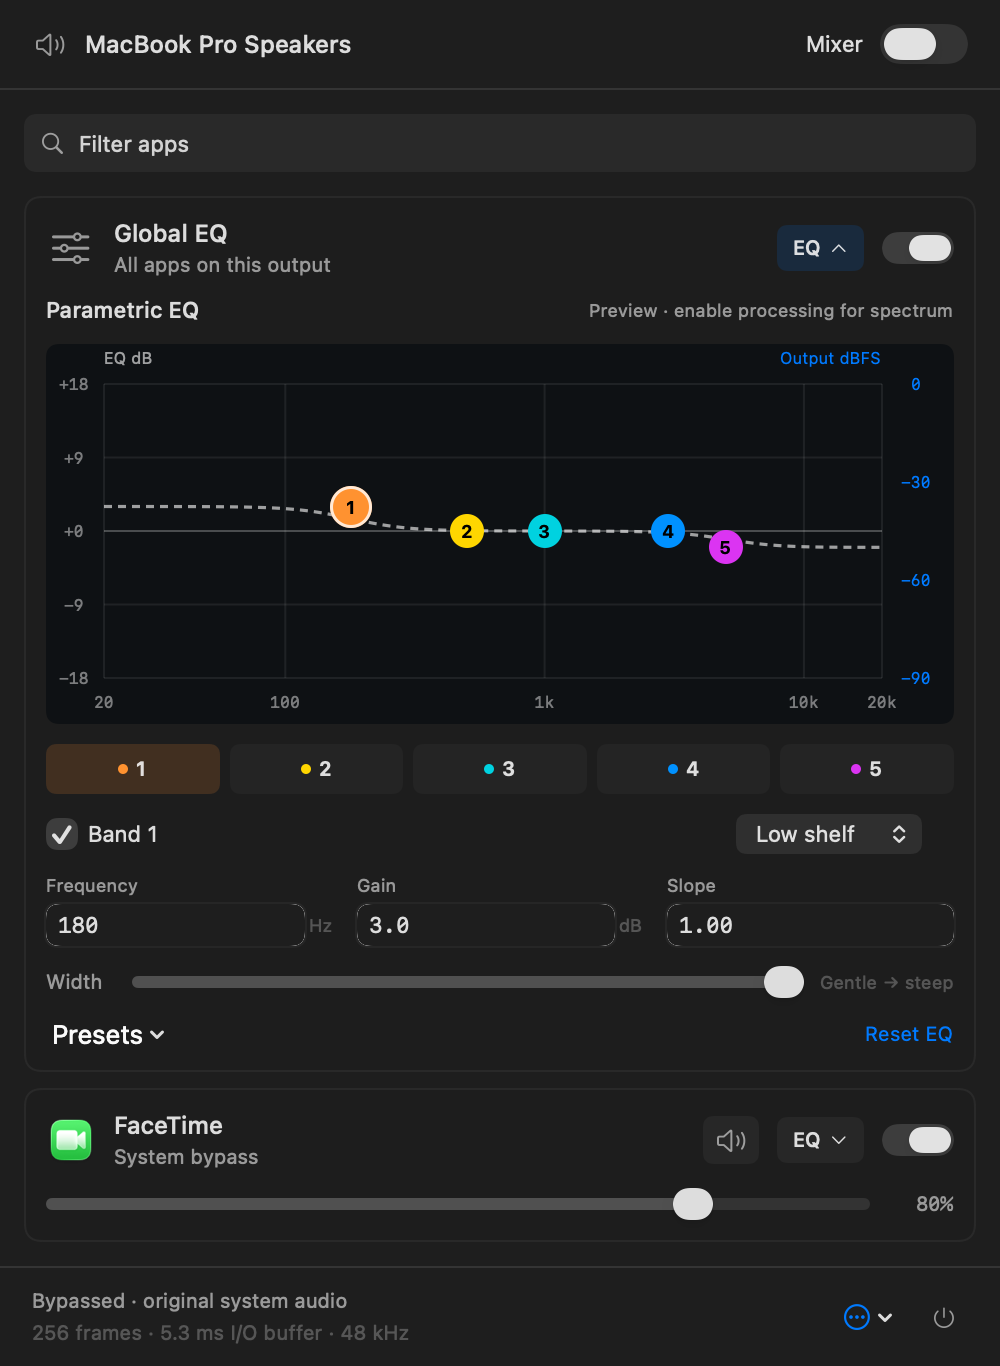
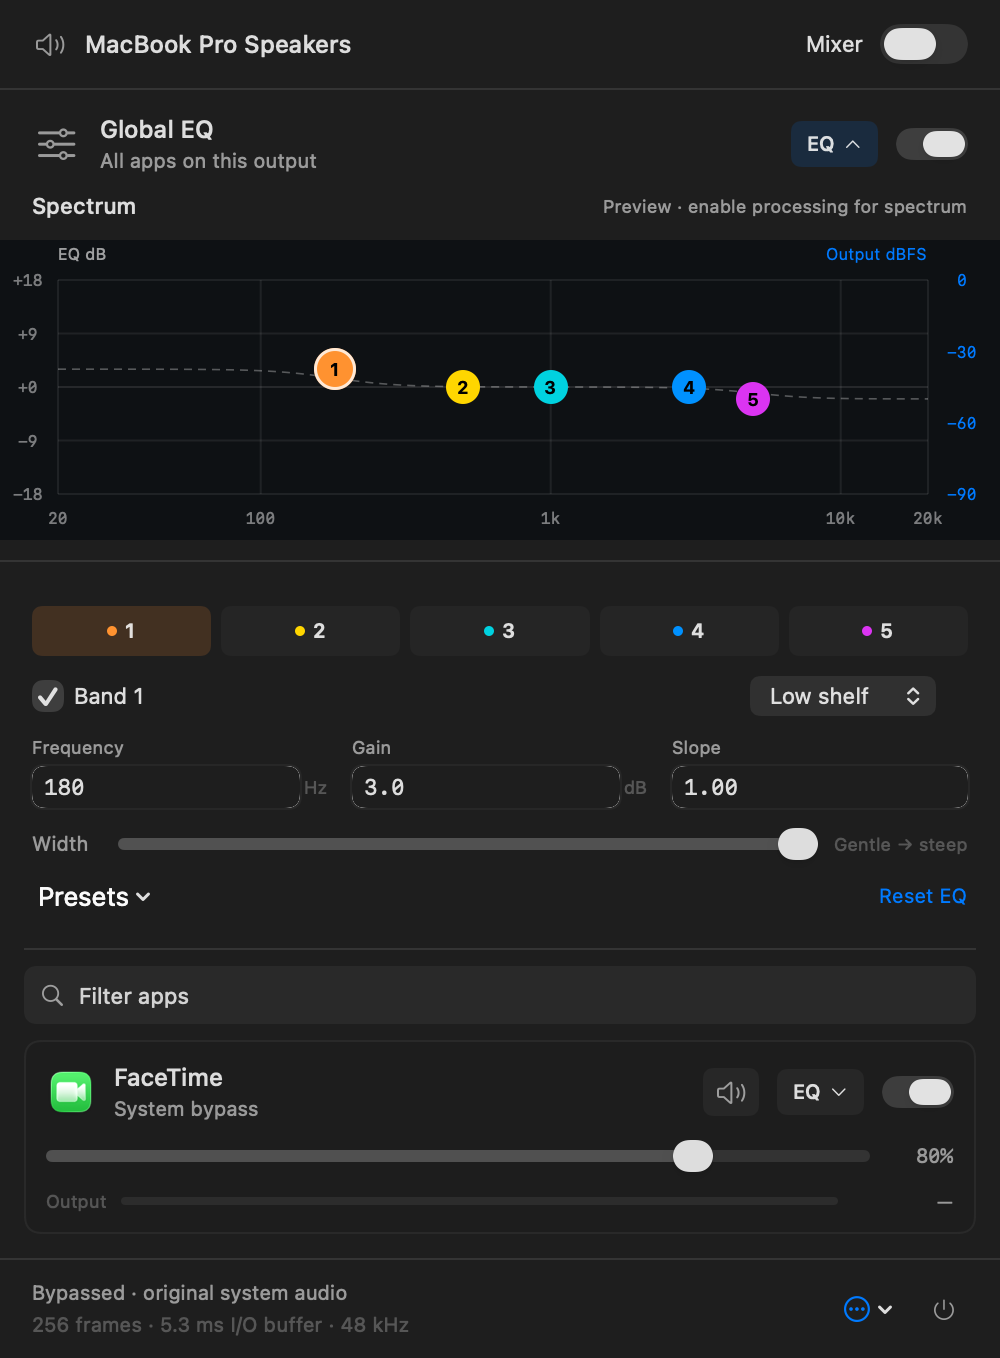
Pin full-width global EQ and add live app output meters

diff --git a/AppMixer/App/Sources/ParametricEQView.swift b/AppMixer/App/Sources/ParametricEQView.swift
@@ -6,7 +6,16 @@ struct ParametricEQView: View {
     @ObservedObject var model: MixerModel
     let appID: String
     var compact = false
-    @State private var selected = 0
+    var controlsOnly = false
+    var overviewHandles = false
+    var selection: Binding<Int>?
+    @State private var localSelected = 0
+    private var selected: Int {
+        get { selection?.wrappedValue ?? localSelected }
+        nonmutating set {
+            if let selection { selection.wrappedValue = newValue } else { localSelected = newValue }
+        }
+    }
     private var settings: MixerSettings { model.value(appID) }
     private var band: EQBand { settings.bands[selected] }
     private var isGlobal: Bool { appID == MixerModel.globalEQID }
@@ -29,49 +38,54 @@ struct ParametricEQView: View {
 
     var body: some View {
         VStack(spacing: 10) {
-            HStack(spacing: 5) {
-                Text(compact ? "Spectrum" : "Parametric EQ").font(.system(size: 11, weight: .medium))
-                Spacer()
-                if processing && !telemetry.spectrum.isEmpty {
-                    Circle().fill(Color.accentColor).frame(width: 5, height: 5)
-                    Text(isGlobal ? "App spectra" : "Live output").font(.system(size: 9)).foregroundStyle(.secondary)
+            if !controlsOnly {
+                HStack(spacing: 5) {
+                    Text(compact ? "Spectrum" : "Parametric EQ").font(.system(size: 11, weight: .medium))
+                    Spacer()
+                    if processing && !telemetry.spectrum.isEmpty {
+                        Circle().fill(Color.accentColor).frame(width: 5, height: 5)
+                        Text(isGlobal ? "App spectra" : "Live output").font(.system(size: 9)).foregroundStyle(
+                            .secondary
+                        )
                         .help(
                             isGlobal
                                 ? "Strongest app in each frequency bin; not a measurement of the summed system output."
                                 : "App output after app EQ, Global EQ, volume, and limiting. The curve shows this app's EQ only."
                         )
-                    if compact && telemetry.limitingDB > 0.1 {
-                        Text(String(format: "Limiting −%.1f dB", telemetry.limitingDB))
-                            .font(.system(size: 9, design: .monospaced)).foregroundStyle(.orange)
-                            .help(
-                                "Automatic clipping protection is reducing gain. Lower app volume or EQ boosts for more headroom."
+                        if compact && telemetry.limitingDB > 0.1 {
+                            Text(String(format: "Limiting −%.1f dB", telemetry.limitingDB))
+                                .font(.system(size: 9, design: .monospaced)).foregroundStyle(.orange)
+                                .help(
+                                    "Automatic clipping protection is reducing gain. Lower app volume or EQ boosts for more headroom."
+                                )
+                        } else {
+                            Text(
+                                telemetry.peak > 0.00003
+                                    ? String(format: "%.0f dBFS", 20 * log10(telemetry.peak)) : "−∞ dBFS"
                             )
-                    } else {
-                        Text(
-                            telemetry.peak > 0.00003
-                                ? String(format: "%.0f dBFS", 20 * log10(telemetry.peak)) : "−∞ dBFS"
-                        )
-                        .font(.system(size: 9, design: .monospaced)).foregroundStyle(.secondary).frame(
-                            width: 53, alignment: .trailing)
-                    }
-                } else {
-                    Text(processing ? "Waiting for signal" : "Preview · enable processing for spectrum").font(
-                        .system(size: 9)
-                    ).foregroundStyle(.secondary)
-                }
-            }
-            graph.frame(height: compact ? 110 : 190)
-            if isGlobal && processing && !spectrumApps.isEmpty {
-                ScrollView(.horizontal, showsIndicators: false) {
-                    HStack(spacing: 12) {
-                        ForEach(spectrumApps) { app in
-                            HStack(spacing: 4) {
-                                Capsule().fill(spectrumColor(app.id)).frame(width: 12, height: 2)
-                                Text(app.name).lineLimit(1)
-                            }.font(.system(size: 9)).foregroundStyle(.secondary)
+                            .font(.system(size: 9, design: .monospaced)).foregroundStyle(.secondary).frame(
+                                width: 53, alignment: .trailing)
                         }
+                    } else {
+                        Text(processing ? "Waiting for signal" : "Preview · enable processing for spectrum").font(
+                            .system(size: 9)
+                        ).foregroundStyle(.secondary)
                     }
-                }.frame(height: 13)
+                }
+                .padding(.horizontal, isGlobal ? 16 : 0)
+                graph.frame(height: compact ? 150 : 190)
+                if isGlobal && processing && !spectrumApps.isEmpty {
+                    ScrollView(.horizontal, showsIndicators: false) {
+                        HStack(spacing: 12) {
+                            ForEach(spectrumApps) { app in
+                                HStack(spacing: 4) {
+                                    Capsule().fill(spectrumColor(app.id)).frame(width: 12, height: 2)
+                                    Text(app.name).lineLimit(1)
+                                }.font(.system(size: 9)).foregroundStyle(.secondary)
+                            }
+                        }
+                    }.frame(height: 13).padding(.horizontal, 16)
+                }
             }
             if !compact {
                 HStack(spacing: 5) {
@@ -118,6 +132,18 @@ struct ParametricEQView: View {
                     numberControl(
                         band.type.isShelf ? "Slope" : "Q", unit: "", value: binding(\.q),
                         range: 0.1...(band.type.isShelf ? 1 : 10), decimals: 2)
+                }
+                if band.type.hasGain && band.gain <= -0.1 {
+                    Text(
+                        String(
+                            format: "%.1f dB ≈ %.0f%% amplitude in the affected range, not mute.", band.gain,
+                            100 * pow(10, band.gain / 20))
+                    )
+                    .font(.system(size: 9)).foregroundStyle(.secondary)
+                    .frame(maxWidth: .infinity, alignment: .leading)
+                    .help(
+                        "Shelf gain applies away from the transition frequency; bell gain applies at its center. The spectrum shows the remaining output on a logarithmic scale."
+                    )
                 }
                 HStack(spacing: 8) {
                     Text("Width").font(.system(size: 10)).foregroundStyle(.secondary).frame(
@@ -181,7 +207,7 @@ struct ParametricEQView: View {
             let rect = CGRect(x: 29, y: 20, width: geometry.size.width - 65, height: geometry.size.height - 43)
             let upper = maxFrequency
             ZStack {
-                RoundedRectangle(cornerRadius: 6).fill(Color(red: 0.055, green: 0.067, blue: 0.078))
+                RoundedRectangle(cornerRadius: isGlobal ? 0 : 6).fill(Color(red: 0.055, green: 0.067, blue: 0.078))
                 Canvas { context, size in
                     func x(_ hz: Double) -> CGFloat { rect.minX + log(hz / 20) / log(upper / 20) * rect.width }
                     func y(_ db: Double) -> CGFloat { rect.midY - db / 36 * rect.height }
@@ -201,7 +227,8 @@ struct ParametricEQView: View {
                         var line = Path()
                         line.move(to: CGPoint(x: rect.minX, y: y(db)))
                         line.addLine(to: CGPoint(x: rect.maxX, y: y(db)))
-                        context.stroke(line, with: .color(.white.opacity(db == 0 ? 0.25 : 0.07)), lineWidth: 1)
+                        context.stroke(
+                            line, with: .color(.white.opacity(db == 0 ? (isGlobal ? 0.1 : 0.25) : 0.07)), lineWidth: 1)
                         context.draw(
                             Text(String(format: "%+.0f", db)).font(.system(size: 8, design: .monospaced))
                                 .foregroundStyle(.white.opacity(0.45)), at: CGPoint(x: 14, y: y(db)))
@@ -251,10 +278,10 @@ struct ParametricEQView: View {
                         if index == 0 { curve.move(to: point) } else { curve.addLine(to: point) }
                     }
                     context.stroke(
-                        curve, with: .color(.white.opacity(processing ? 0.9 : 0.6)),
-                        style: StrokeStyle(lineWidth: 1.6, dash: processing ? [] : [4, 3]))
+                        curve, with: .color(.white.opacity(isGlobal ? 0.3 : (processing ? 0.9 : 0.6))),
+                        style: StrokeStyle(lineWidth: isGlobal ? 0.8 : 1.6, dash: processing ? [] : [4, 3]))
                 }
-                if !compact {
+                if !compact || overviewHandles {
                     ForEach(0..<5) { index in
                         let b = settings.bands[index]
                         let x = rect.minX + log(min(upper, max(20, b.frequency)) / 20) / log(upper / 20) * rect.width

diff --git a/AppMixer/App/Sources/MixerView.swift b/AppMixer/App/Sources/MixerView.swift
@@ -6,6 +6,7 @@ import SwiftUI
 struct MixerView: View {
     @ObservedObject var model: MixerModel
     @State private var search = ""
+    @State private var globalBand = 0
     @State private var measured: [String: CGFloat] = [:]
     private var apps: [AudioApplication] {
         model.snapshot.apps.filter { search.isEmpty || $0.name.localizedCaseInsensitiveContains(search) }
@@ -43,23 +44,20 @@ struct MixerView: View {
                     }.foregroundStyle(.orange).padding(12).frame(maxWidth: .infinity, alignment: .leading).background(
                         .orange.opacity(0.08))
                 }
-                HStack(spacing: 7) {
-                    Image(systemName: "magnifyingglass").foregroundStyle(.secondary)
-                    TextField("Filter apps", text: $search).textFieldStyle(.plain)
-                    if !search.isEmpty {
-                        Button {
-                            search = ""
-                        } label: {
-                            Image(systemName: "xmark.circle.fill")
-                        }.buttonStyle(.plain)
-                    }
-                }.font(.system(size: 11)).padding(8).background(
-                    .quaternary.opacity(0.5), in: RoundedRectangle(cornerRadius: 6)
-                ).padding(12)
+                globalSection
+                Divider()
             }.trackHeight("header")
             ScrollView {
                 VStack(spacing: 8) {
-                    globalCard
+                    if model.selectedEQ == MixerModel.globalEQID {
+                        ParametricEQView(
+                            model: model, appID: MixerModel.globalEQID,
+                            controlsOnly: true, selection: $globalBand
+                        )
+                        .padding(.horizontal, 4).padding(.vertical, 10)
+                        Divider()
+                    }
+                    searchField
                     if apps.isEmpty {
                         VStack(spacing: 8) {
                             Text(search.isEmpty ? "No audio apps yet" : "No matching apps").font(
@@ -69,7 +67,7 @@ struct MixerView: View {
                         }.padding(30)
                     }
                     ForEach(apps) { app in appCard(app) }
-                }.padding(.horizontal, 12).padding(.bottom, 12)
+                }.padding(.horizontal, 12).padding(.vertical, 12)
                     .fixedSize(horizontal: false, vertical: true).trackHeight("apps")
             }.frame(
                 height: min(
@@ -108,7 +106,22 @@ struct MixerView: View {
             .background(Color(nsColor: .windowBackgroundColor))
             .onPreferenceChange(PanelHeights.self) { if measured != $0 { measured = $0 } }
     }
-    private var globalCard: some View {
+    private var searchField: some View {
+        HStack(spacing: 7) {
+            Image(systemName: "magnifyingglass").foregroundStyle(.secondary)
+            TextField("Filter apps", text: $search).textFieldStyle(.plain)
+            if !search.isEmpty {
+                Button {
+                    search = ""
+                } label: {
+                    Image(systemName: "xmark.circle.fill")
+                }.buttonStyle(.plain)
+            }
+        }.font(.system(size: 11)).padding(8).background(
+            .quaternary.opacity(0.5), in: RoundedRectangle(cornerRadius: 6)
+        )
+    }
+    private var globalSection: some View {
         let selected = model.selectedEQ == MixerModel.globalEQID
         return VStack(spacing: 9) {
             HStack(spacing: 9) {
@@ -140,13 +153,11 @@ struct MixerView: View {
                         })
                 ).toggleStyle(.switch).controlSize(.mini).labelsHidden()
                     .help("Bypass Global EQ while keeping each app's settings.")
-            }
-            ParametricEQView(model: model, appID: MixerModel.globalEQID, compact: !selected)
-        }.padding(11).background(
-            Color(nsColor: .controlBackgroundColor).opacity(0.65),
-            in: RoundedRectangle(cornerRadius: 8)
-        )
-        .overlay(RoundedRectangle(cornerRadius: 8).strokeBorder(.primary.opacity(0.06)))
+            }.padding(.horizontal, 16).padding(.top, 12)
+            ParametricEQView(
+                model: model, appID: MixerModel.globalEQID, compact: true,
+                overviewHandles: selected, selection: $globalBand)
+        }.padding(.bottom, 10)
     }
     private func appCard(_ app: AudioApplication) -> some View {
         let settings = model.value(app.id)
@@ -213,11 +224,39 @@ struct MixerView: View {
             if selected {
                 Divider()
                 ParametricEQView(model: model, appID: app.id)
+            } else {
+                activityMeter(app)
             }
         }.padding(11).background(
             Color(nsColor: .controlBackgroundColor).opacity(0.65), in: RoundedRectangle(cornerRadius: 8)
         )
         .overlay(RoundedRectangle(cornerRadius: 8).strokeBorder(.primary.opacity(0.06)))
+    }
+    private func activityMeter(_ app: AudioApplication) -> some View {
+        let available = model.enabled && app.playing && model.snapshot.active.contains(app.id)
+        let peak = available ? (model.telemetry.apps[app.id]?.peak ?? 0) : 0
+        let db = peak > 0 ? 20 * log10(Double(peak)) : -.infinity
+        let fraction = max(0, min(1, (db + 60) / 60))
+        let label = !available ? "—" : (peak > 0 ? String(format: "%.0f dBFS", db) : "−∞ dBFS")
+        return HStack(spacing: 7) {
+            Text("Output").foregroundStyle(.tertiary)
+            GeometryReader { geometry in
+                ZStack(alignment: .leading) {
+                    Capsule().fill(Color.secondary.opacity(0.12))
+                    Capsule().fill(Color.accentColor.opacity(0.75))
+                        .frame(width: geometry.size.width * fraction)
+                }
+            }.frame(height: 4)
+                .animation(.linear(duration: 0.067), value: fraction)
+            Text(label).monospacedDigit().foregroundStyle(.secondary).frame(width: 51, alignment: .trailing)
+        }.font(.system(size: 9))
+            .accessibilityElement(children: .ignore)
+            .accessibilityLabel("\(app.name) output level")
+            .accessibilityValue(available ? label : "Not metered")
+            .help(
+                model.enabled
+                    ? "Live output peak after app volume, mute, and both EQs. Meter scale: −60 to 0 dBFS."
+                    : "Enable Mixer to show live output levels. Bypass releases all audio taps.")
     }
     private func status(_ app: AudioApplication, settings: MixerSettings) -> String {
         if !settings.enabled && !(model.enabled && model.globalEQ.hasEnabledEQ) { return "App bypassed" }

diff --git a/AppMixer/Tests/AppMixerTests/MixerTests.swift b/AppMixer/Tests/AppMixerTests/MixerTests.swift
@@ -410,8 +410,37 @@ private func renderParametric(
     }
     MixerDSPConfigure(dsp, 1, true, nil, 0)
     _ = processSamples(signal, channels: 1, dsp: dsp)
+    // Peak is per callback; the large settling block includes the mute ramp.
+    // The next hardware-sized callback must report zero after that ramp ends.
+    _ = processSamples(Array(signal.prefix(512)), channels: 1, dsp: dsp)
     let muted = try #require(analyzer.read(dsp: dsp, sampleRate: rate))
     #expect(muted.spectrum.allSatisfy { $0 == -90 })
+    #expect(muted.peak == 0)
+}
+
+@Test func maximumBassCutLeavesMeasuredResidualAudioInsteadOfSilence() throws {
+    let rate = 48000.0
+    let frequency = 40.0
+    let dsp = MixerDSPCreate(rate, 1, 1)!
+    defer { MixerDSPDestroy(dsp) }
+    MixerDSPEnableAnalysis(dsp, true)
+    let analyzer = SpectrumAnalyzer()
+    let input = (0..<48000).map { Float(0.1 * sin(2 * .pi * frequency * Double($0) / rate)) }
+    _ = processSamples(input, channels: 1, dsp: dsp)
+    let before = try #require(analyzer.read(dsp: dsp, sampleRate: rate))
+    let bin = try #require(before.spectrum.enumerated().max(by: { $0.element < $1.element })).offset
+    var settings = MixerSettings()
+    settings.bass = -18
+    let bands = settings.dspBands
+    bands.withUnsafeBufferPointer { MixerDSPConfigure(dsp, 1, false, $0.baseAddress, UInt32($0.count)) }
+    let output = processSamples(input, channels: 1, dsp: dsp)
+    let after = try #require(analyzer.read(dsp: dsp, sampleRate: rate))
+    let ratio = rms(Array(output.suffix(24000))) / rms(Array(input.suffix(24000)))
+    let measuredDB = Double(after.spectrum[bin] - before.spectrum[bin])
+    print("−18 dB bass at 40 Hz: amplitude \(ratio), spectrum change \(measuredDB) dB")
+    #expect(ratio > 0.12 && ratio < 0.14)
+    #expect(after.peak > 0 && after.spectrum[bin] > -90)
+    #expect(abs(measuredDB - settings.responseDB(at: frequency, sampleRate: rate)) < 0.2)
 }
 
 private func processSamples(_ inputSamples: [Float], channels: Int, dsp: OpaquePointer) -> [Float] {

diff --git a/AppMixer/Sources/AppMixerAppSupport/MixerEngine.swift b/AppMixer/Sources/AppMixerAppSupport/MixerEngine.swift
@@ -115,6 +115,11 @@ public final class MixerEngine: @unchecked Sendable {
                     let analyzer = analyzers[id] ?? SpectrumAnalyzer()
                     analyzers[id] = analyzer
                     if let value = route.analysis(using: analyzer) { analysisReadings[id] = value }
+                    // Level meters should not wait for a full FFT window or a
+                    // successful spectrum snapshot while its writer is active.
+                    var reading = analysisReadings[id] ?? AudioTelemetry()
+                    reading.peak = route.peak
+                    analysisReadings[id] = reading
                 }
                 var combined = AudioTelemetry.envelope(Array(analysisReadings.values))
                 combined.apps = analysisReadings

diff --git a/AppMixer/App/Sources/ScreenshotRenderer.swift b/AppMixer/App/Sources/ScreenshotRenderer.swift
@@ -70,6 +70,12 @@ struct ScreenshotRenderer {
         musicEQ.volume = 0.65
         model.settings = [zoom.id: zoomEQ, music.id: musicEQ]
         model.snapshot.active = [zoom.id, music.id]
+        // Explicit illustrative meter levels, not captured audio.
+        for (id, peak) in [(zoom.id, Float(0.08)), (music.id, Float(0.22))] {
+            var level = AudioTelemetry()
+            level.peak = peak
+            model.telemetry.apps[id] = level
+        }
         host.rootView = MixerView(model: model).environment(\.controlActiveState, .active).id("mixer")
         try capture("mixer", maximum: 720)
         model.snapshot.apps = [zoom]

diff --git a/docs/DEVELOPMENT.md b/docs/DEVELOPMENT.md
@@ -29,6 +29,8 @@ Permission is first requested when processing or live spectrum needs an app audi
 - Mono/stereo Float32 output devices with a single output stream are supported. Multichannel/multistream devices are rejected explicitly. This version processes the **current system output**; apps explicitly routed to a different output should be set to the system output first.
 - EQ: five configurable bands, 20 Hz–20 kHz (limited to 45% of sample rate), ±18 dB. Bell, low/high shelf, and 12 dB/octave low/high cut filters. Bell/cut Q spans 0.1–10; shelf slope spans 0.1–1. Each band can be bypassed. Boosts raise their selected frequencies without fixed full-band attenuation. Stereo-linked sample-peak protection reduces gain only when output would exceed full scale, then releases over 50 ms; it adds no lookahead or playback buffering. The live “Limiting” indicator shows reduction. Lower app volume when more headroom is needed. This is sample-peak protection, not an oversampled true-peak limiter. Volume is 0–100%.
 - Drag numbered graph handles to change frequency/gain. Click a band, enter exact frequency/gain/Q values, or use the width slider. White is the filter response (EQ dB, before app volume and peak protection); a dashed line indicates a preview while bypassed. The system accent color fills the live processed-output spectrum (−90…0 dBFS). Double-click a numbered handle to restore that band’s defaults.
+- Global EQ spans the popup width and stays above the scrolling search and app controls. Its response line is subdued. Collapsed app rows show live output-peak meters (−60…0 dBFS), after volume, mute, and both EQs. Global bypass releases the taps, so meters show unavailable rather than fabricated activity.
+- The minimum band gain is −18 dB, not silence: it leaves about 13% amplitude in the affected range. A logarithmic spectrum still shows that remaining energy; the controls display this amplitude relationship when cutting.
 - The optional 16,384-sample Hann-window spectrum uses Accelerate off the audio thread at ~15 fps. Atomic snapshots never delay playback. At 48 kHz the analysis window covers about 341 ms of recent sound; this affects visual settling, not playback latency. Frequency bins use interpolated boundaries, and there is no extra peak hold to conceal EQ cuts or mute. Both the EQ-gain (left) and output-dBFS (right) scales are labeled; the frequency axis is logarithmic. Stereo powers are combined without phase cancellation. While the popup is open and the main mixer is enabled, playing apps acquire neutral routes as needed for analysis, even with flat EQ. Closing it releases analysis-only routes. The Global EQ graph overlays up to six app spectra with matching labels; its filled envelope is the strongest app in each frequency bin, not a phase-aligned measurement of the final mixed output. Per-app spectra include both app and global processing. Global bypass always releases all routes.
 - Chrome/Electron helper clients resolve to their outer application’s name, icon, and bundle ID. Legacy helper-key settings migrate to that app; existing parent settings take precedence.
 - App discovery runs once per second. Helpers nested in a containing app are grouped with it. Saved/paused apps remain visible but acquire no route until playing to the selected output. Pausing releases the route. New audio processes and output changes rebuild affected routes; switching outputs may cause a brief transition. Pause/resume and sleep/wake are handled.

diff --git a/CHANGELOG.md b/CHANGELOG.md
@@ -2,6 +2,9 @@
 
 ## In development
 
+- Pin a full-width Global EQ above search and app controls, soften its response line, and add live output meters to collapsed apps.
+- Clarify that a −18 dB band cut leaves about 13% amplitude instead of muting it.
+
 - Add Global EQ above the app list, with an always-visible spectrum and layered app traces.
 - Start spectrum analysis on opening the panel, including flat EQ, while preserving global bypass.
 - Add 11 EQ presets, double-click band reset, system accent color, prominent app mute buttons, and a power-icon Quit button.

diff --git a/README.md b/README.md
@@ -11,7 +11,7 @@
   <img src="docs/media/mixer.png" alt="Per-app volume and bypass controls" width="360">
   <img src="docs/media/global-equalizer.png" alt="Global five-band parametric EQ" width="360">
 </p>
-<p align="center"><sub>Native interface shown with sample app settings.</sub></p>
+<p align="center"><sub>Native interface shown with sample app settings and levels.</sub></p>
 
 ## Features
 
